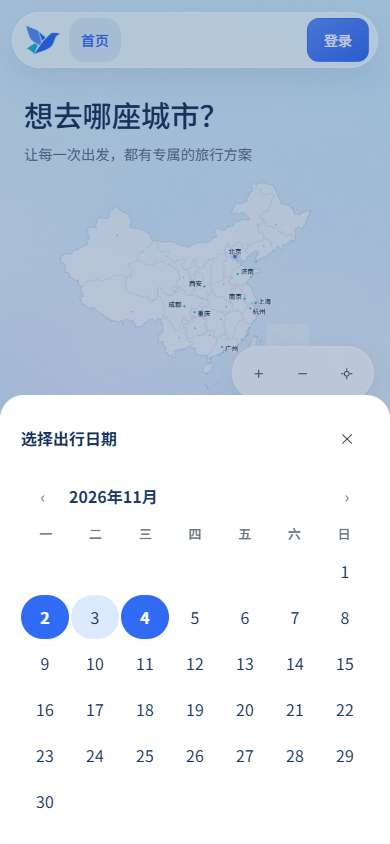
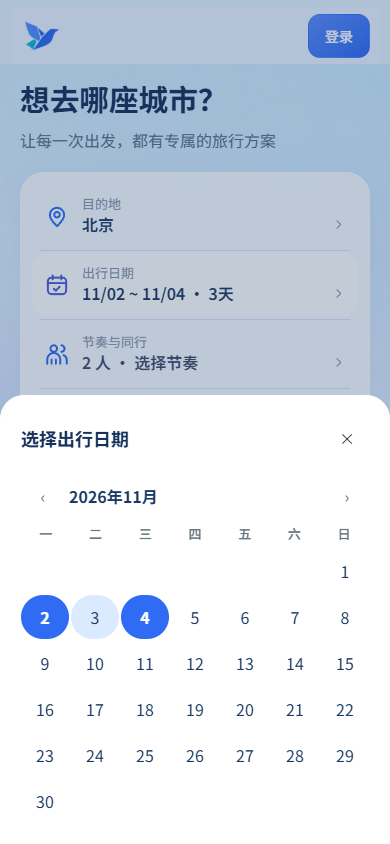
chore: record journal

diff --git a/.trellis/tasks/10-05-home-mobile-layout/research/verification.md b/.trellis/tasks/10-05-home-mobile-layout/research/verification.md
@@ -1,22 +1,32 @@
-# 实现与自测记录（待用户验收）
+# 首页移动端重做：实现与验证（待用户验收）
 
-## 实现
-- HomePage：缩小移动地图，压缩标题与间距；纵向规划卡片使用独立 1px 缩放标尺和底部安全区。
-- HomeCapsule：手机以 Modal sheet 展示同一份表单；原生关闭、Escape、焦点返回；日历单月与 44px 行高；人数按钮至少 44px；备注字号 16px；开始规划显示文字。
-- ChinaMap：移动端居中和正常文档流，允许页面纵向触摸/滚轮滚动；横向拖动、点选、缩放和重置保留；减少动态效果时关闭光圈动画。
-- 所有业务逻辑与账号草稿语义保持；未改动进入本任务前已有的专属建议等工作。
+## 当前结果
+- 手机首屏为行程规划卡片，下方为目的地精选；顶部保留品牌、通知和登录/退出入口，首页和行程列表提供底部导航。
+- 目的地使用全屏 Modal，支持搜索、地图缩放/重置、候选预览、确认、取消、浏览器返回/前进和直接查询链接。取消不改变城市；日期与账号偏好草稿保留。
+- 日期、节奏/人数、偏好复用原有表单与底部弹层，保留桌面地图和横向胶囊。
+- 按用户最新要求复用现有已审核图库：北京天坛、杭州雷峰塔、厦门鼓浪屿。沿用 eligibleReview、署名、用户排除与 verifiedPhotoBytes 门槛，原始文件 SHA-256 全部一致。来源与审核记录见 apps/web/src/assets/destinations/sources.json。
+- 精选仅与接口返回城市取交集。图片失败依次降级为城市插画、可访问占位；未覆盖城市不能选入。
 
 ## 验证
-- `npm run typecheck`：通过。
-- `npm run build -w apps/web`：通过；保留既有大包体提示。
-- `node apps/web/tests/home-mobile-browser.mjs`：8 个尺寸全部通过：320×568、375×812、390×844、430×932、768×1024、844×390、1024×768、1440×900。
-- 浏览器检查涵盖横向溢出、导航边界、四种面板、单/双月、日期范围、节奏与人数、偏好和长备注、Escape 焦点返回、访客登录弹窗、城市空/错误状态、地图点选/缩放/重置、真实触摸纵向滚动以及零业务写入。
-- 已人工查看手机首页、日期/偏好弹层、小屏、横屏与桌面截图。
-- `git diff --check`：通过。
-- `node --test apps/web/tests/styles.test.mjs`：未通过。既有 `apps/web/src/pages/LoginPage.tsx` 原生 `<button>` 违反全局共享控件规则，该文件不在本任务改动范围，未扩大范围修改。
+- npm run typecheck：通过。
+- npm run build -w apps/web：通过，保留既有大包体提示。
+- HOME_TEST_URL=http://127.0.0.1:5175 node apps/web/tests/home-mobile-browser.mjs：最终构建 8/8 通过，320×568、375×812、390×844、430×932、768×1024、844×390、1024×768、1440×900。
+- 该回归覆盖四种面板、单/双月日历、范围选择、长备注、取消/Back/Forward、直接查询链接、生成参数、访客登录、空/错误城市、真实触摸滚动、图片与插画失败、列表底部导航和草稿阶段零业务写入。
+- node apps/web/tests/login-dialog-browser.mjs：通过。
+- node --import tsx apps/web/tests/navigation-notifications-browser.mjs：通过，包括通知、后台生成和离页保存保护。
+- BASE=http://127.0.0.1:5174 node --import tsx apps/web/tests/travel-preferences-browser.mjs：通过，包括仅成功生成后记忆、失败不保存、账号隔离和保存失败重试。已更新测试以适配跨断点关闭弹层及退出后的首页登录弹窗。
+- git diff --check：通过。
+- node --test apps/web/tests/styles.test.mjs：仍因既有 LoginPage.tsx 原生 button 失败；与上一版验证记录一致，该文件未改。
+- 已查看手机、小屏日期弹层、全屏目的地、实景图、桌面截图；11 城预览中济南向左避开青岛，增加相邻标签不重叠断言。最终调整后类型检查、构建和 8 尺寸回归再次通过。
 
-## 交付
-- 本地预览：http://127.0.0.1:5173/
-- 最终手机截图：`after/home.png`、`after/date.png`、`after/preferences.png`。
-- 全部截图与机器结果：`data/home-mobile-verification/`（通过 HOME_TEST_OUTPUT 可改变输出目录）。
-- 按 AGENTS.md，本次仅实现与自测，任务保持 in_progress；未提交、未归档，等待用户明确验收。
+## 预览与证据
+- 独立界面预览：http://127.0.0.1:5175/ （固定隔离数据，只读，不创建真实行程）。
+- 启动命令：node .trellis/tasks/10-05-home-mobile-layout/research/preview.mjs，需要先构建 apps/web。
+- 已在真实浏览器验证该预览可展示图片、选择杭州、打开目的地弹窗。
+- 截图：after/mobile-preview.jpg、after/home-ready.png、after/destination.png、after/date.png、after/desktop.png。
+- 8 尺寸测试结果：after/results.json；完整截图保留在 data/home-mobile-verification。
+- 登录与导航回归截图移入本任务 research/regressions，其他任务原有截图保持不变。
+- 原 5173 开发服务曾返回陈旧模块错误且后端 API 返回 502，因此最后的账号回归改用独立构建预览 5174（验证后已停止），交付预览使用 5175。
+
+## 状态
+实现与自测已具备交付条件，按 AGENTS.md 等待用户明确验收。任务保持 in_progress；本会话未提交、未归档、未运行自动收尾。

diff --git a/.trellis/tasks/10-05-home-mobile-layout/prd.md b/.trellis/tasks/10-05-home-mobile-layout/prd.md
@@ -8,6 +8,7 @@
 - 顶部简化为标志、通知与账户入口；首页和行程列表的手机底部导航提供「首页 / 我的行程」。
 - 目的地界面支持返回、城市搜索、地图点选、城市预览和确认；确认才更新首页目的地，取消保留原选择。浏览器返回可关闭，其他草稿不丢失。
 - 目的地精选只取知识库已覆盖城市，真实图片本地存储并记录来源；图片缺失降级为现有城市插画或占位。
+- 2026-10-06 用户指定复用现有已审核图库：静态精选优先北京、杭州、厦门，沿用既有采用门槛与用户排除记录，核对本地字节摘要，不新增外部搜索或审图。
 - 卡片使用乳白玻璃背景、细分隔线、彩色图标和右箭头；主按钮显示「生成我的行程」，缺少条件时有可见说明。
 - 标题、摘要、触控区域使用适合手机的尺寸，开始规划显示明确文字。
 - 日期、节奏与同行、偏好保留共享 Modal 底部弹层；目的地复用 Modal 的全屏样式。

diff --git a/.trellis/workspace/aimer/index.md b/.trellis/workspace/aimer/index.md
@@ -8,7 +8,7 @@
 
 <!-- @@@auto:current-status -->
 - **Active File**: `journal-1.md`
-- **Total Sessions**: 32
+- **Total Sessions**: 33
 - **Last Active**: 2026-10-06
 <!-- @@@/auto:current-status -->
 
@@ -19,7 +19,7 @@
 <!-- @@@auto:active-documents -->
 | File | Lines | Status |
 |------|-------|--------|
-| `journal-1.md` | ~1315 | Active |
+| `journal-1.md` | ~1351 | Active |
 <!-- @@@/auto:active-documents -->
 
 ---
@@ -29,6 +29,7 @@
 <!-- @@@auto:session-history -->
 | # | Date | Title | Commits | Branch |
 |---|------|-------|---------|--------|
+| 33 | 2026-10-06 | 行程卡片固定图片列并移除活动添加入口 | `e4b6d6d`, `d4fba52`, `91792af` | `master` |
 | 32 | 2026-10-06 | 总览建议图标与卡片对齐微调 | `c482788`, `ef341d4` | `master` |
 | 31 | 2026-10-05 | 修复选图额度饥饿并补齐全城中英别名 | `b5fbec1`, `b485d51`, `918d36a`, `fbdc606` | `master` |
 | 30 | 2026-10-05 | 评估体系验收与营业数据修复归档 | `ec51ded`, `7684cb9` | `master` |
